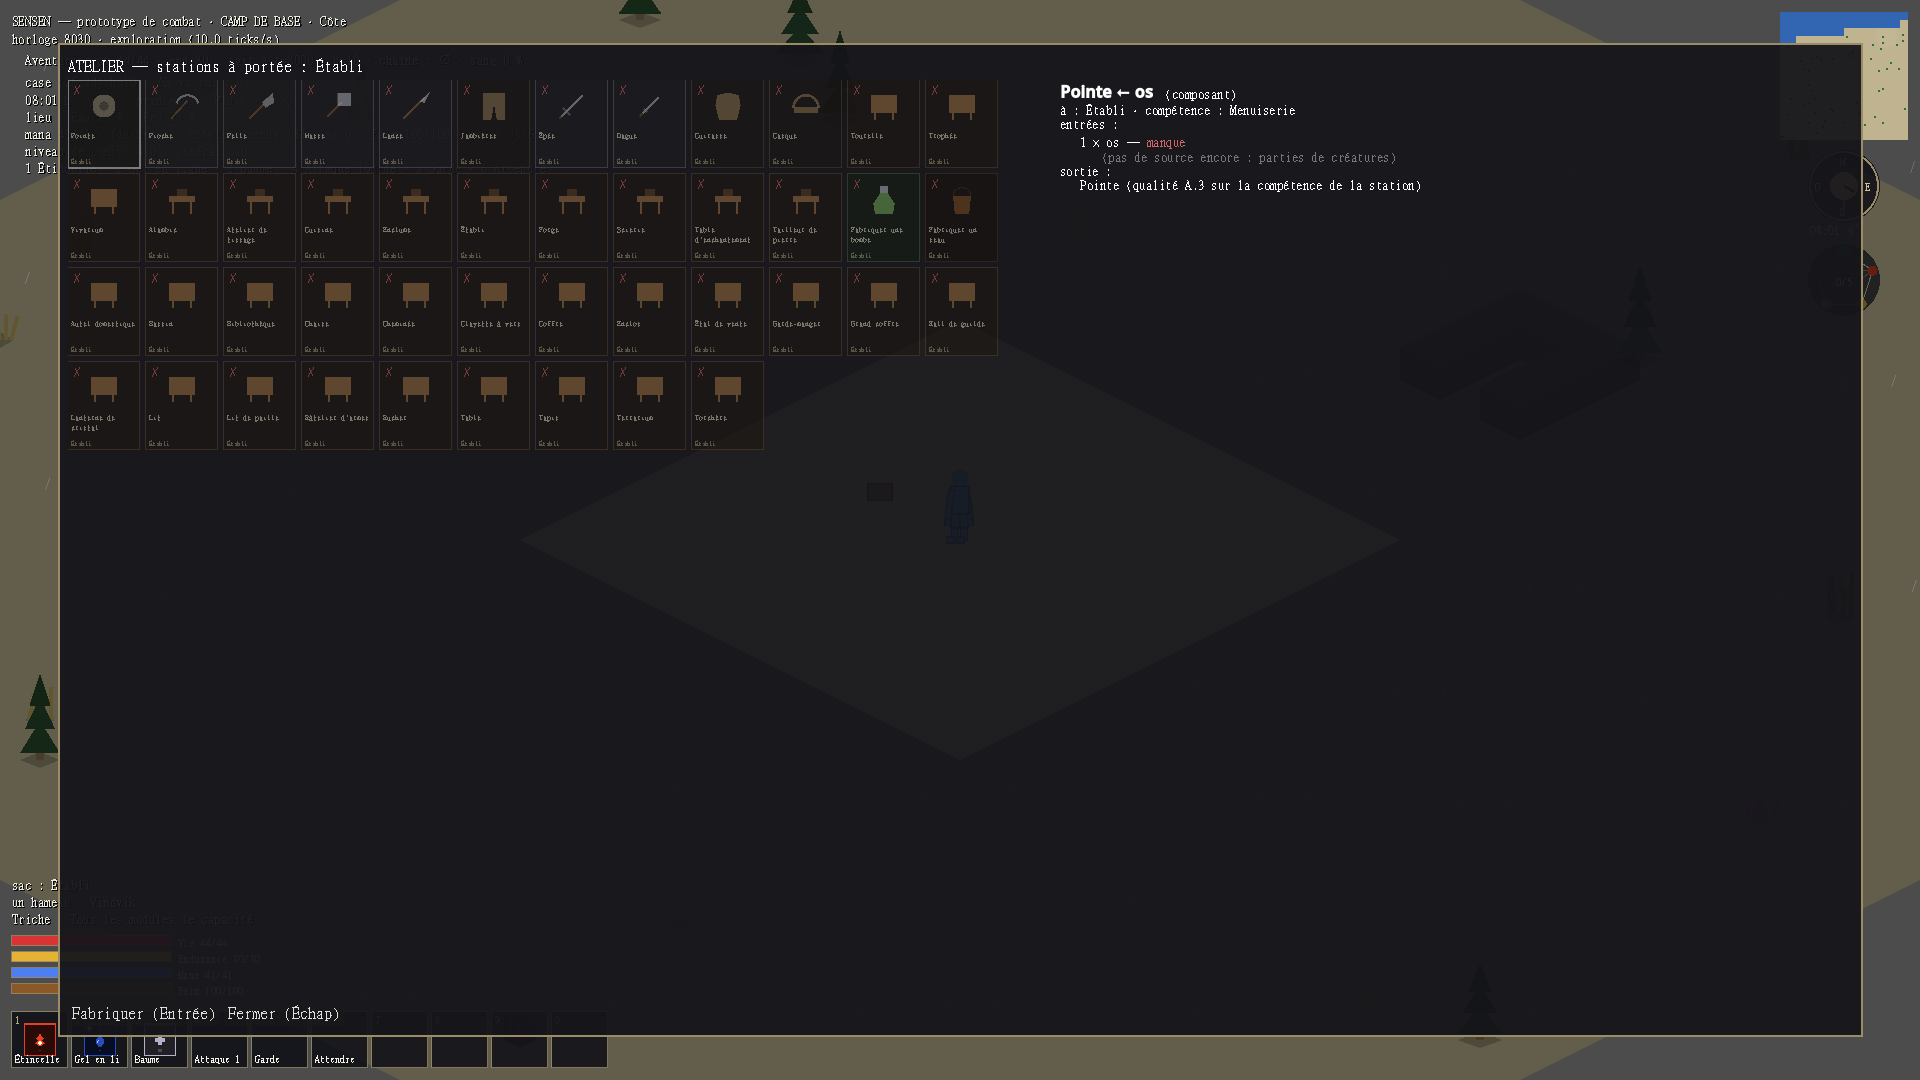
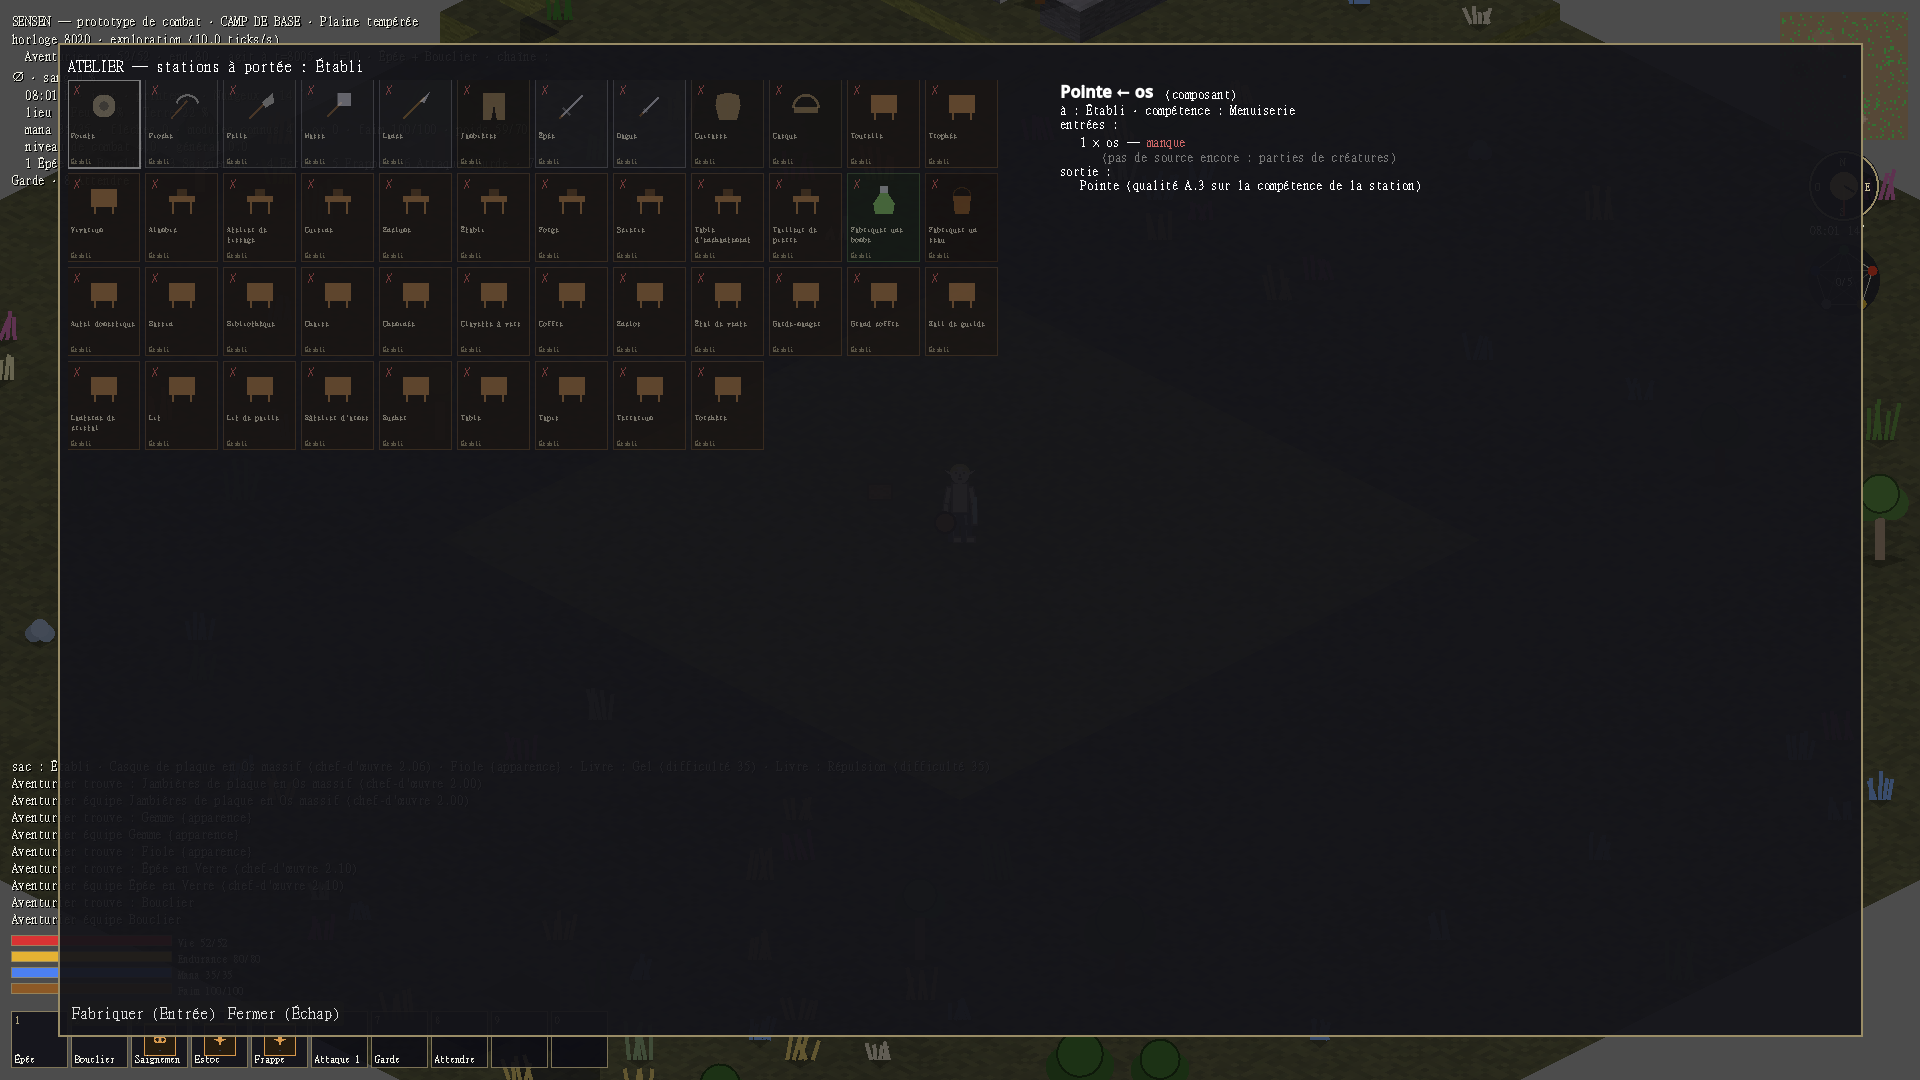
Les captures montrent un jeu vecu, pas un decor vide
L'outil de capture sait maintenant preparer sa scene : --explorer descend
dans le donjon, --marcher parcourt les alentours et revele la carte,
--loot remplit le sac d'objets assembles et equipe le personnage. Les
onze captures sont refaites sur ce principe -- le donjon est explore, le
village parcouru, l'inventaire garni d'une epee en cobalt chef-d'oeuvre --
et trois s'ajoutent : la creation du monde, l'ecran des capacites et le
commerce. La carte s'ouvre desormais en dernier, apres l'exploration,
pour montrer ce que le joueur a reellement vu.

diff --git a/README.md b/README.md
@@ -46,7 +46,7 @@ Dans les écrans : flèches et Entrée, plus les raccourcis lettres **affichés 
 
 ## En images
 
-Captures prises par `scenes/tests/capture.tscn` (tout est dessiné par code — aucun asset) ; elles sont dans [`captures/`](captures/), prises **en plein écran** (`--plein-ecran`, 1920×1080) et se rafraîchissent avec `capture.tscn -- --plein-ecran --sortie captures/<nom>.png` quand un écran change.
+Captures prises par `scenes/tests/capture.tscn` (tout est dessiné par code — aucun asset) ; elles sont dans [`captures/`](captures/), prises **en plein écran** (`--plein-ecran`, 1920×1080) et se rafraîchissent avec `capture.tscn -- --plein-ecran --sortie captures/<nom>.png` quand un écran change. Les scènes sont **jouées avant d'être photographiées** : `--explorer N` descend dans le donjon, `--marcher N` parcourt les alentours, `--loot N` remplit le sac d'objets assemblés et équipe le personnage — une capture montre un jeu vécu, pas un décor vide.
 
 | | |
 |---|---|
@@ -55,7 +55,8 @@ Captures prises par `scenes/tests/capture.tscn` (tout est dessiné par code — 
 | ![Donjon](captures/donjon.png) **Un étage de donjon** — blocs pleins, brouillard de guerre, lueur ambiante | ![Combat](captures/combat.png) **Le combat** — action-time à ticks, résolution simultanée, ennemis typés |
 | ![Composeur](captures/composeur.png) **Le composeur de sorts** — formes, noyaux, modificateurs en glisser-déposer, Wu Xing du sort et aperçu | ![Création du personnage](captures/creation.png) **La création du personnage** — nom, race, classe, stats, les trois jauges, dix loci d'apparence ; les sorts de départ viennent de la classe |
 | ![Inventaire](captures/inventaire.png) **L'inventaire** — l'avatar et ses cases d'équipement, le sac en liste triable, le Wu Xing de l'objet | ![Atelier](captures/atelier.png) **L'atelier** — les recettes en cartes, l'obtention de chaque composant dépliée |
-| ![Orage](captures/pluie.png) **Un orage sur le camp** — la pluie dessinée par code, la foudre au journal, la météo au HUD | |
+| ![Orage](captures/pluie.png) **Un orage sur le camp** — la pluie dessinée par code, la foudre au journal, la météo au HUD | ![Création du monde](captures/monde.png) **La création du monde** — l'aperçu de la mappemonde entière et les sept réglages de génération |
+| ![Capacités](captures/capacites.png) **Les capacités** — les sorts assemblés, leur coût, la hotbar en glisser-déposer | ![Commerce](captures/commerce.png) **Le commerce** — le stock d'un marchand, ses prix, et les objets encore non identifiés |
 
 ---
 
